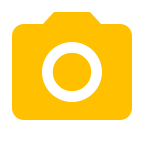
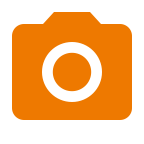
final changes

diff --git a/app/assets/stylesheets/home.css.scss b/app/assets/stylesheets/home.css.scss
@@ -44,9 +44,10 @@ margin-right: 4px;
 .stretch{width: 100%;display: inline-block;font-size: 0;line-height: 0;}
 .shpage{overflow: hidden;background-color: #eaeaea;margin: 20px 0;position: relative;}
 .shpage_null{overflow: hidden;margin: 20px 0;position: relative;}
-.shpageblock{overflow: hidden;margin: 10px 0;background-image: url('/img/watchblock.png');background-position: top right;background-repeat: no-repeat;}
-#countri .cntrmap {height: 324px;}
-#countri .cntrmap iframe {height: 324px;width:345px;}
+.shpageblock{overflow: hidden;margin: 10px 0;background-image: url('/img/fone-pogoda.jpg');color:white;background-position: top right;background-repeat: no-repeat;}
+.watch{padding:5px 10px;}
+#countri .cntrmap {height: 235px;}
+#countri .cntrmap iframe {height: 235px;width:345px;}
 #countri .shpageblock p{margin-top: 20px;}
 #countri .shpageblock img {
 /* border-radius: 50%; */
@@ -508,8 +509,8 @@ text-decoration: none;
 .nav > li{background-color: #1a587f;background-image: url("/img/bgmenuleft.png");border-bottom: solid 1px #003d64;border-left: solid 1px #003d64;border-right: solid 1px #003d64;}
 .carousel-title{font-size: 1.6em;height: 100px;}
 .carousel-caption{font-size: 1.2em;bottom: 0px;}
-#countri .cntrmap {height: 324px;}
-#countri .cntrmap iframe {height: 324px;width:360px;}
+#countri .cntrmap {height: 235px;}
+#countri .cntrmap iframe {height: 235px;width:360px;}
 #countri .ohdetails{border:none;}
 #place .cntrmap {height: 324px;width:360px;}
 #place .cntrmap iframe {height: 324px;width:360px;}
@@ -609,9 +610,9 @@ text-decoration: none;
 
 @media screen and (min-width: 1200px) and (max-width:1599px) {
 #gsInformerID-SaEv66Ur83g2e0{width: 165px!important;}
-#countri .cntrmap {height: 298px;}
-#countri .cntrmap iframe {height: 298px;width:345px;}
-#countri{width: 910px;height: 518px;}
+#countri .cntrmap {height: 235px;}
+#countri .cntrmap iframe {height: 235px;width:345px;}
+#countri{width: 910px;height: 465px;}
 #countri .shpageblock{height: 180px;}
 #countri .ohgallery{padding-right: 370px;}
 #countri .ohdetails{width: 370px;height: 508px;}
@@ -654,9 +655,9 @@ text-decoration: none;
 }
 
 @media screen and (min-width: 1600px) {
-#countri{width: 1310px;height: 738px;}
-#countri .cntrmap {height: 520px;}
-#countri .cntrmap iframe {height: 520px;width:508px;}
+#countri{width: 1310px;height: 465px;}
+#countri .cntrmap {height: 465px;}
+#countri .cntrmap iframe {height: 520px;width:465px;}
 #countri .shpageblock{height: 180px;}
 #countri .ohgallery{padding-right: 533px;}
 #countri .ohdetails{width: 533px;height: 728px;}

diff --git a/public/fotorama.css b/public/fotorama.css
@@ -640,7 +640,7 @@
   margin-top: 5px;
 }
 .fotorama__type-photo a.active {
-  color: #FFC000;
+  color: #ee7900;
 }
 .fotorama__type-photo a.active .fotorama-video-icon {
   background: url('ic_videocam_white_48pt_3x_active.png') no-repeat 50% 50% ;

diff --git a/app/assets/stylesheets/application.css b/app/assets/stylesheets/application.css
@@ -275,3 +275,6 @@ label {
 		margin-top: 20px;
 	}
 }
+.modal {
+	z-index: 9999999;
+}

diff --git a/app/models/user.rb b/app/models/user.rb
@@ -17,7 +17,7 @@ class User < ActiveRecord::Base
   attr_accessible :country, :city, :gender, :birthday
   attr_accessible :facebook_link, :twitter_link, :vk_link, :instagram_link, :google_link
 
-  has_attached_file :avatar, :styles => { :medium => "300x300>", :thumb => "100x100>", :micro => "50x50#" }, :default_url => "/images/:style/missing.png"
+  has_attached_file :avatar, :styles => { :medium => "300x300>", :thumb => "100x100>", :micro => "50x50#" }, :default_url => "/default_avatar.png"
   validates_attachment_content_type :avatar, :content_type => /\Aimage\/.*\Z/
   attr_accessor :login
   

diff --git a/app/controllers/users_controller.rb b/app/controllers/users_controller.rb
@@ -35,7 +35,7 @@ class UsersController < ApplicationController
         sign_in(current_user, bypass: true) if @user.valid?
       end
     else
-      permitted_params = params.require(:user).permit(:username, :email, :first_name, :last_name, :country, :city, :gender, :birthday)
+      permitted_params = params.require(:user).permit(:username, :email, :first_name, :last_name, :country, :city, :gender, :birthday, :avatar)
       @user.update permitted_params
     end
 
